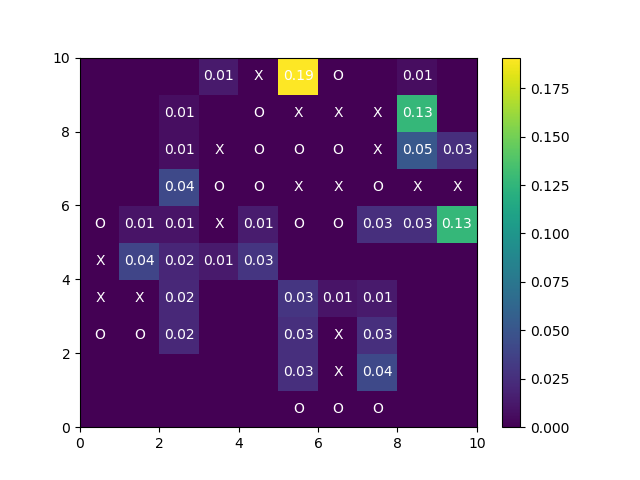
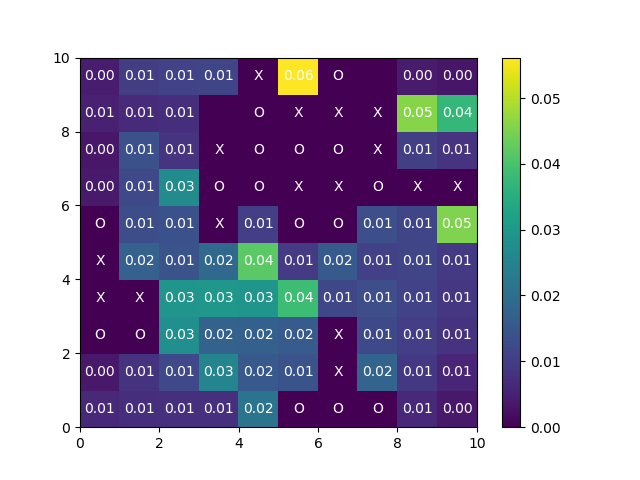
kl divergence computation

diff --git a/model.py b/model.py
@@ -3,6 +3,7 @@ import numpy as np
 import matplotlib.pyplot as plt
 import math
 import replay as rp
+from scipy import stats
 
 LOGFILE = ['logs/6_hard_full_dec19.csv','logs/6_hard_pruned_dec19.csv','logs/10_hard_full_dec19.csv','logs/10_hard_pruned_dec19.csv', 'logs/6_easy_full_dec19.csv','logs/6_easy_pruned_dec19.csv','logs/10_easy_full_dec19.csv','logs/10_easy_pruned_dec19.csv','logs/10_medium_full_dec19.csv','logs/10_medium_pruned_dec19.csv']
 DIMENSION = 6
@@ -58,7 +59,7 @@ def compute_scores_density_guassian(normalized=False, sig = 3, lamb = 1):
                 elif (board_matrix[i][j]==2):
                     board_matrix[i][j]='O'
 
-        print board_matrix
+        # print board_matrix
 
         sum_scores = 0.0
         sum_scores_exp = 0.0
@@ -86,8 +87,8 @@ def compute_scores_density_guassian(normalized=False, sig = 3, lamb = 1):
         #     for c in range(len(score_matrix_normalized[r])):
         #         score_matrix_normalized[r][c] = score_matrix_normalized[r][c]/sum_scores
 
-        print 'score matrix:'
-        print score_matrix
+        # print 'score matrix:'
+        # print score_matrix
         # print 'score matrix normalized'
         # print score_matrix_normalized
 
@@ -110,7 +111,7 @@ def compute_scores_density_guassian(normalized=False, sig = 3, lamb = 1):
 
         a = np.array(score_matrix)
         a = np.flip(a,0)
-        print a
+        # print a
         heatmap = plt.pcolor(a)
 
         for y in range(a.shape[0]):
@@ -161,7 +162,7 @@ def compute_scores_density(normalized=False, neighborhood_size=1, lamb=1):
                 elif (board_matrix[i][j]==2):
                     board_matrix[i][j]='O'
 
-        print board_matrix
+        # print board_matrix
 
         sum_scores = 0.0
         sum_scores_exp = 0.0
@@ -180,8 +181,8 @@ def compute_scores_density(normalized=False, neighborhood_size=1, lamb=1):
         #     for c in range(len(score_matrix_normalized[r])):
         #         score_matrix_normalized[r][c] = score_matrix_normalized[r][c]/sum_scores
 
-        print 'score matrix:'
-        print score_matrix
+        # print 'score matrix:'
+        # print score_matrix
         # print 'score matrix normalized'
         # print score_matrix_normalized
 
@@ -204,7 +205,7 @@ def compute_scores_density(normalized=False, neighborhood_size=1, lamb=1):
 
         a = np.array(score_matrix)
         a = np.flip(a,0)
-        print a
+        # print a
         heatmap = plt.pcolor(a)
 
         for y in range(a.shape[0]):
@@ -342,7 +343,7 @@ def compute_open_paths(row, col, board, exp=1):
         if (path_length == streak_size) & (not blocked):
             open_paths_lengths.append(path_x_count+1)
 
-    print open_paths_lengths
+    # print open_paths_lengths
 
     if len(open_paths_lengths) == 0:
         return 0.0
@@ -374,7 +375,7 @@ def compute_scores_open_paths(normalized=False, exp=1, lamb = 1):
                 elif (board_matrix[i][j]==2):
                     board_matrix[i][j]='O'
 
-        print board_matrix
+        # print board_matrix
 
         sum_scores = 0.0
         sum_scores_exp = 0.0
@@ -394,8 +395,8 @@ def compute_scores_open_paths(normalized=False, exp=1, lamb = 1):
         #     for c in range(len(score_matrix_normalized[r])):
         #         score_matrix_normalized[r][c] = score_matrix_normalized[r][c]/sum_scores
 
-        print 'score matrix:'
-        print score_matrix
+        # print 'score matrix:'
+        # print score_matrix
         # print 'score matrix normalized'
         # print score_matrix_normalized
 
@@ -417,7 +418,7 @@ def compute_scores_open_paths(normalized=False, exp=1, lamb = 1):
 
         a = np.array(score_matrix)
         a = np.flip(a,0)
-        print a
+        # print a
         heatmap = plt.pcolor(a)
 
         for y in range(a.shape[0]):
@@ -458,7 +459,7 @@ def compute_scores_open_paths(normalized=False, exp=1, lamb = 1):
 def compute_scores_composite(normalized=False, exp=1, neighborhood_size=1, density = 'guassian', lamb=None, sig=3):
     data_matrices = {}
     if (density=='guassian'):
-        density_scores = compute_scores_density_guassian(True)
+        density_scores = compute_scores_density_guassian(True,sig=sig)
     else:
         density_scores = compute_scores_density(True, neighborhood_size=neighborhood_size)
     path_scores = compute_scores_open_paths(True,exp)
@@ -481,7 +482,7 @@ def compute_scores_composite(normalized=False, exp=1, neighborhood_size=1, densi
                 elif (board_matrix[i][j]==2):
                     board_matrix[i][j]='O'
 
-        print board_matrix
+        # print board_matrix
 
         sum_scores = 0.0
         sum_scores_exp = 0.0
@@ -508,8 +509,8 @@ def compute_scores_composite(normalized=False, exp=1, neighborhood_size=1, densi
         #     for c in range(len(score_matrix_normalized[r])):
         #         score_matrix_normalized[r][c] = score_matrix_normalized[r][c]/sum_scores
 
-        print 'score matrix:'
-        print score_matrix
+        # print 'score matrix:'
+        # print score_matrix
         # print 'score matrix normalized'
         # print score_matrix_normalized
 
@@ -534,7 +535,7 @@ def compute_scores_composite(normalized=False, exp=1, neighborhood_size=1, densi
 
         a = np.array(score_matrix)
         a = np.flip(a,0)
-        print a
+        # print a
         heatmap = plt.pcolor(a)
 
         for y in range(a.shape[0]):
@@ -574,83 +575,126 @@ def compute_scores_composite(normalized=False, exp=1, neighborhood_size=1, densi
     return data_matrices
 
 
+def transform_matrix_to_list(mat):
+    list_rep = []
+    for i in range(len(mat)):
+        for j in range(len(mat[i])):
+            if mat[i][j]<0.00001:
+                mat[i][j] = 0.00001
+            list_rep.append(mat[i][j])
+
+    sum_values = sum(list_rep)
+    for i in range(len(list_rep)):
+        list_rep[i]=list_rep[i]/sum_values
+    return list_rep
+
 def run_models():
-    data_composite_guassian = compute_scores_composite(True, exp=2, neighborhood_size=1)
-    data_composite_reg = compute_scores_composite(True, exp=2, neighborhood_size=1, density='reg')
-    data_density = compute_scores_density(True,neighborhood_size=1)
-    data_density_guassian = compute_scores_density_guassian(True)
-    data_paths = compute_scores_open_paths(True, exp=2)
+    # data_composite_guassian = compute_scores_composite(True, exp=2, sig=4)
+    # data_composite_reg = compute_scores_composite(True, exp=2, neighborhood_size=1, density='reg')
+    # data_composite_reg_2 = compute_scores_composite(True, exp=2, neighborhood_size=2, density='reg')
+    # data_density = compute_scores_density(True,neighborhood_size=1)
+    # data_density_2 = compute_scores_density(True,neighborhood_size=2)
+    # data_density_guassian = compute_scores_density_guassian(True)
+    # data_paths = compute_scores_open_paths(True, exp=2)
     data_first_moves = rp.entropy_paths()
 
-    print data_density.keys()
+    models = []
+    # models.append(['dataCompositeGuassianSig3',compute_scores_composite(True, exp=2)])
+    models.append(['dataCompositeGuassianSig10',compute_scores_composite(True, exp=2, sig=10)])
+    # models.append(['dataCompositeGuassianReg1',compute_scores_composite(True, exp=2, neighborhood_size=1, density='reg')])
+    # models.append(['dataCompositeGuassianReg2',compute_scores_composite(True, exp=2, neighborhood_size=2, density='reg')])
+    # models.append(['dataDensity',compute_scores_density(True,neighborhood_size=1)])
+    # models.append(['dataDensity2',compute_scores_density(True,neighborhood_size=2)])
+    # models.append(['dataDensityGuassian',compute_scores_density_guassian(True)])
+    # models.append(['dataPaths',compute_scores_open_paths(True, exp=2)])
+
+
+    # data_first_moves = rp.entropy_paths()
+
+
+
     for board in ['6_easy','6_hard','10_easy','10_hard','10_medium']:
-        fig_file_name = 'heatmaps/guassian/' + board+ '_neighborhood=1.png'
-        heatmaps = []
         full = board + '_full'
         pruned = board + '_pruned'
-        if board.startswith('6'):
-            fig, axes = plt.subplots(2, 3, figsize=(12,8))
-        else:
-            fig, axes = plt.subplots(2, 3, figsize=(18,12))
-        fig.suptitle(board)
+        for model in models:
+            qk = transform_matrix_to_list(model[1][full])
+            pk = transform_matrix_to_list(data_first_moves[full])
+            ent_full = stats.entropy(pk,qk=qk)
+            print full + ',' + model[0] + ',' + str(ent_full)
+            pk = transform_matrix_to_list(model[1][pruned])
+            qk = transform_matrix_to_list(data_first_moves[pruned])
+            ent_pruned = stats.entropy(pk,qk=qk)
+            print pruned + ',' + model[0] + ',' + str(ent_pruned)
 
-
-        i = 0
-
-        # heatmaps.append((data_density[full], 'density full'))
-        # heatmaps.append((data_density_guassian[full], 'density guassian full'))
-        # heatmaps.append((data_paths[full], 'paths full'))
-        heatmaps.append((data_composite_reg[full], 'composite  full'))
-        heatmaps.append((data_composite_guassian[full], 'composite guassian full'))
-        heatmaps.append((data_first_moves[full], 'first moves full'))
-
-        # heatmaps.append((data_density[pruned],'density pruned'))
-        # heatmaps.append((data_density_guassian[pruned], 'density guassian pruned'))
-        # heatmaps.append((data_paths[pruned],'paths pruned'))
-        heatmaps.append((data_composite_reg[pruned], 'composite  pruned'))
-        heatmaps.append((data_composite_guassian[pruned], 'composite guassian pruned'))
-        heatmaps.append((data_first_moves[pruned], 'first moves pruned'))
-
-        for ax in axes.flatten():  # flatten in case you have a second row at some point
-            a = np.array(heatmaps[i][0])
-            a = np.flip(a,0)
-            img = ax.pcolormesh(a)
-            for y in range(a.shape[0]):
-                for x in range(a.shape[1]):
-                    if(a[y,x]==-1) | (a[y,x]==-0.00001):
-                        ax.text(x + 0.5, y + 0.5, 'X',
-                             horizontalalignment='center',
-                             verticalalignment='center',
-                             color='white'
-                                 )
-                    elif((a[y,x]==-2) | (a[y,x]==-0.00002)):
-                        ax.text(x + 0.5, y + 0.5, 'O',
-                             horizontalalignment='center',
-                             verticalalignment='center',
-                             color='white'
-                        )
-                    elif(a[y,x]!=0):
-                        ax.text(x + 0.5, y + 0.5, '%.2f' % a[y, x],
-                                 horizontalalignment='center',
-                                 verticalalignment='center',
-                                 color='white'
-                         )
-
-            fig.colorbar(img, ax=ax)
-            # plt.colorbar(img)
-            ax.set_aspect('equal')
-            ax.set_title(heatmaps[i][1])
-            i+=1
-
-        # a = np.random.rand(10,4)
-        # img = axes[0,0].imshow(a,interpolation='nearest')
-        # axes[0,0].set_aspect('auto')
-        # plt.colorbar(img)
-        # plt.title(board)
-        # fig.tight_layout()
-        # fig.subplots_adjust(top=0.88)
-        plt.savefig(fig_file_name)
-        plt.clf()
+    # print data_density.keys()
+    # for board in ['6_easy','6_hard','10_easy','10_hard','10_medium']:
+    #     fig_file_name = 'heatmaps/guassian/' + board+ '_neighborhood=1.png'
+    #     heatmaps = []
+    #     full = board + '_full'
+    #     pruned = board + '_pruned'
+    #     if board.startswith('6'):
+    #         fig, axes = plt.subplots(2, 3, figsize=(12,8))
+    #     else:
+    #         fig, axes = plt.subplots(2, 3, figsize=(18,12))
+    #     fig.suptitle(board)
+    #
+    #
+    #     i = 0
+    #
+    #     # heatmaps.append((data_density[full], 'density full'))
+    #     # heatmaps.append((data_density_guassian[full], 'density guassian full'))
+    #     # heatmaps.append((data_paths[full], 'paths full'))
+    #     heatmaps.append((data_composite_reg[full], 'composite  full'))
+    #     heatmaps.append((data_composite_guassian[full], 'composite guassian full'))
+    #     heatmaps.append((data_first_moves[full], 'first moves full'))
+    #
+    #     # heatmaps.append((data_density[pruned],'density pruned'))
+    #     # heatmaps.append((data_density_guassian[pruned], 'density guassian pruned'))
+    #     # heatmaps.append((data_paths[pruned],'paths pruned'))
+    #     heatmaps.append((data_composite_reg[pruned], 'composite  pruned'))
+    #     heatmaps.append((data_composite_guassian[pruned], 'composite guassian pruned'))
+    #     heatmaps.append((data_first_moves[pruned], 'first moves pruned'))
+    #
+    #     for ax in axes.flatten():  # flatten in case you have a second row at some point
+    #         a = np.array(heatmaps[i][0])
+    #         a = np.flip(a,0)
+    #         img = ax.pcolormesh(a)
+    #         for y in range(a.shape[0]):
+    #             for x in range(a.shape[1]):
+    #                 if(a[y,x]==-1) | (a[y,x]==-0.00001):
+    #                     ax.text(x + 0.5, y + 0.5, 'X',
+    #                          horizontalalignment='center',
+    #                          verticalalignment='center',
+    #                          color='white'
+    #                              )
+    #                 elif((a[y,x]==-2) | (a[y,x]==-0.00002)):
+    #                     ax.text(x + 0.5, y + 0.5, 'O',
+    #                          horizontalalignment='center',
+    #                          verticalalignment='center',
+    #                          color='white'
+    #                     )
+    #                 elif(a[y,x]!=0):
+    #                     ax.text(x + 0.5, y + 0.5, '%.2f' % a[y, x],
+    #                              horizontalalignment='center',
+    #                              verticalalignment='center',
+    #                              color='white'
+    #                      )
+    #
+    #         fig.colorbar(img, ax=ax)
+    #         # plt.colorbar(img)
+    #         ax.set_aspect('equal')
+    #         ax.set_title(heatmaps[i][1])
+    #         i+=1
+    #
+    #     # a = np.random.rand(10,4)
+    #     # img = axes[0,0].imshow(a,interpolation='nearest')
+    #     # axes[0,0].set_aspect('auto')
+    #     # plt.colorbar(img)
+    #     # plt.title(board)
+    #     # fig.tight_layout()
+    #     # fig.subplots_adjust(top=0.88)
+    #     plt.savefig(fig_file_name)
+    #     plt.clf()
 
 
 def makeGaussian(size, fwhm = 3, center=None):
